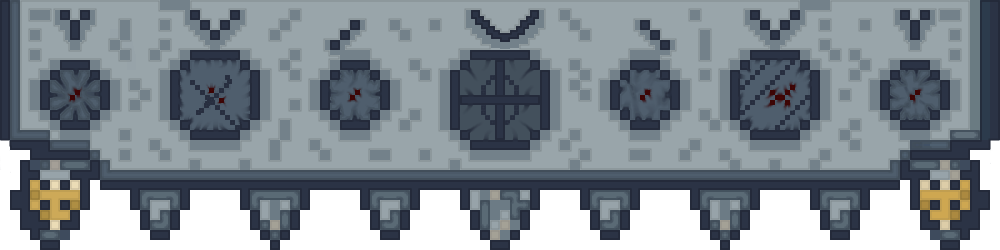
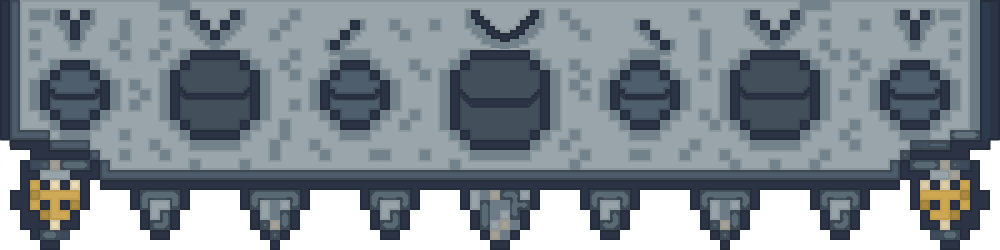
change boss sprite

diff --git a/src/comp/game/SpaceInvaders/README.md b/src/comp/game/SpaceInvaders/README.md
@@ -1,0 +1,120 @@
+# Space Invaders React + Canvas
+
+## Why
+
+I’m sharing this project because, while there are many tutorials showing how to build Space Invaders with plain JavaScript and HTML, I couldn’t find any recent tutorials implementing the game with modern React patterns. For example, in some videos I saw people asking for help trying to remake the game in React — I even searched for such tutorials myself.
+Since I managed to build a version using React’s hooks and a structure I find acceptable, I decided to share it back with the community.
+I want to stress that I’m not an expert in JavaScript, React, or frontend development — I’m just sharing my personal work, hoping it might help someone.
+
+## Project Overview
+
+This small game is a version of Space Invaders made using React and the Canvas API (along with JavaScript, HTML, CSS, and Tailwind).
+
+The project started as part of my learning journey with React and frontend development in general. The idea was to hide little games inside a fictional shop.
+
+Along the way, I discovered a video tutorial by Chris Courses (https://www.youtube.com/@ChrisCourses), which covered how to build a Space Invaders-style game using just plain JavaScript and canvas. The video only covers a basic version of the game, which I used as a reference. All the rest is just personal experimentation and creative additions — the game grew naturally as I tried new things.
+Instead of using pure JavaScript, I converted everything into React, mostly using useRef and useEffect. I used useState only where actual UI updates were needed.
+
+Initially, everything was written in a single file, which eventually grew to over 3000 lines. That pushed me to break the code into separate files and learn how to properly structure and share logic across them. The result is a feature-based organization with folders like player/, invaders/, boss/, ui/, powerup/, and so on. I’ve added large section comments to make the code easier to follow, and it’s still evolving as I continue to refactor and improve it—even after the video release.
+
+## Player
+
+- Can move horizontally and shoot projectiles.
+- Projectiles hit enemies or boss weak points.
+- Can be hit by enemy projectiles, lasers, or falling objects.
+- Customizable ship and projectile colors.
+- After defeating the boss, a power-up bubble appears. Picking it up upgrades the ship with improved stats and a new look.
+- Lives: the player starts with 5 lives. Lives are displayed as a ship icon followed by "x" and a numeral sprite. The icon updates based on the selected color and the current ship stage (before/after upgrade).
+
+## 👾 Invaders
+
+- Spawn in grids with random size (columns × rows).
+- Move together horizontally and descend after hitting edges.
+- Shoot projectiles at random intervals.
+- Destroyed on hit; triggers explosion particles and sound.
+- Each grid has increasing speed based on its size.
+- If any invader reaches the bottom of the screen, the player loses the game.
+
+## Meteor
+
+- Spawn after reaching a score threshold.
+- Spawns every 3s.
+- 3 types: large → medium → small, each hit downgrades the size.
+- Each type has different stats and impact sound.
+
+## Follower Enemy
+
+- Spawns after reaching a score threshold.
+- Spawns every 6s if under the limit, max 2 on screen.
+- Follows the player, then stops to charge and fire a laser.
+- 3-phase cycle: follow → charge → shoot.
+- Has visible health bar.
+- Phase 2 upgrade: after defeating the boss, it gains a visual update, larger laser, faster movement, and new animation.
+
+## Boss
+
+- Appears after a certain score threshold.
+- Phase 1: only projectiles, with random spawn frequency.
+- Projectiles: 3 types, each with different shapes and speed.
+- Phase 2: only laser beams with charging/shooting phases.
+- Beams: 3 types, each with different shapes, particles and sounds.
+- Phase 3: fires both lasers and projectiles, with lower projectile frequency.
+- Blue weak points: infinite, reposition every 5s, replaced when destroyed.
+- Red weak points: limited, stay until hit, replaced on destroy, higher damage.
+- Between phase 1 and phase 2, the boss moves up off-screen, changes sprite (from closed to open eyes), then descends back into the canvas (The boss sprite was hand-drawn in GIMP based on an image generated with Sora; the original .xcf file is included in the project).
+- Oscillatory movement with periodic switching between clockwise and counterclockwise rotation.
+
+## Power Ups
+
+- **Shield**: unlocks after reaching a certain score threshold; spawns every 15 seconds as a falling bubble the player must collect; provides 5 seconds of invulnerability from all damage sources; flashes when about to expire.
+- **Ship Upgrade**: spawns after defeating the boss; grants a new player ship sprite and improved stats; appears as a glowing, animated bubble that falls but stops at player height to ensure pickup.
+
+## 🏆 Score
+
+- Display: uses numeral sprites, increases smoothly with easing animation.
+- Effects: grows every 1K and 10K.
+- End screen: Final score appears in the main menu after the game ends.
+- High scores: Top 3 scores are saved locally (local storage) and shown at startup.
+- Bonus message: A custom congratulatory message appears if you reach 10K.
+
+## Particles, Effects, Animation
+
+- Particle explosions for enemy/boss hits and player death.
+- Flash animation when the player is hit or the shield is running out.
+- Particle effects for enemies lasers.
+- "Evolution" animation when picking up the ship upgrade.
+- Background star particles with varying opacity and radius; speed changes during boss entry (faster), and post-boss phase 2 (slightly accelerated).
+- Retreat animation for enemies and player exit/return synchronized with boss entrance.
+
+## 🔊 Sound
+
+- SFX: Almost every action has an associated sound — shooting, hits, explosions, laser charge and fire, invader grid spawn, game over, etc.
+- Background music: At the start of each game, one of several background tracks is randomly selected. After defeating the boss and entering phase 2, the background track switches to a different set. The boss also has its own unique randomly chosen tracks.
+  All these background tracks were originally generated with Suno AI, but since I can’t upload them to YouTube due to licensing, I replaced each type with a similar copyright-free track for the video (intro, boss, and phase 2).
+
+## Assets
+
+- All images and sounds used are listed in the file `CREDITS.md`, where I also credit the original authors and sources. They are all CC0 or similarly licensed-free to use without restrictions.
+- The Suno AI-generated music tracks have been removed from the project repository to avoid copyright issues.
+- Image and sound paths are stored in `asset/imgURL.js` and `asset/soundURL.js`.
+
+## UI
+
+- Audio controls: individual volume sliders for SFX, SFX (shooting only), and background music; plus a global mute toggle.
+- Controls help: popup menu showing gameplay controls.
+- Quit button: An optional button to exit the game, useful when the game is embedded above another component.
+
+## Extra
+
+- Debug Hitbox: uncomment a line to show some hitboxes for player, enemies, and projectiles.
+
+## ⚠ Known Issues / Limitations
+
+1. Grid Width Adjustment:
+   The tutorial mentions (point 7a) the need to recalculate the invader grid width-height when invaders get removed. I attempted to handle this but encountered many issues, so I left it unimplemented.
+
+2. Music Management:
+   The individual volume sliders for background music and sound effects work well. However, the global mute toggle, which stops and restarts music, is unstable. Rapid toggling or switching tracks quickly can cause the music to bug out—either not restarting or continuing to play after the game is closed. Under normal use, it works fine, so I have not fixed this yet.
+
+3. Background Music Loading:
+   Background tracks are about 3 minutes long and loaded lazily. Sometimes the music does not start on the first game load because the browser is still loading the files. Refreshing the page solves this, and afterward the music plays smoothly.

diff --git a/src/comp/game/SpaceInvaders/CREDITS.md b/src/comp/game/SpaceInvaders/CREDITS.md
@@ -1,0 +1,165 @@
+# Credits
+
+## Game Assets
+
+- [Space Shooter Redux](https://kenney.nl/assets/space-shooter-redux) by [Kenney.nl](https://kenney.nl) – Licensed under [CC0 1.0](https://creativecommons.org/publicdomain/zero/1.0/)
+
+## Sounds
+
+### Game Background Music:
+
+- **8 bit game loop 004 only organ long 120 bpm**  
+  By **josefpres**  
+  Downloaded on April 17th, 2025 from [FreeSound](https://freesound.org/people/josefpres/)
+
+- **8 bit game loop 009 only organ long 120 bpm**  
+  By **josefpres**  
+  Downloaded on April 16th, 2025 from [FreeSound](https://freesound.org/people/josefpres/)
+
+- **8 bit game loop 010 simple mix 4 long 120 bpm**  
+  By **josefpres**  
+  Downloaded on April 16th, 2025 from [FreeSound](https://freesound.org/people/josefpres/)
+
+- **Game Music Loop 6**  
+  By **XtremeFreddy**  
+  Downloaded on April 16th, 2025 from [pixabay](https://pixabay.com/users/xtremefreddy-32332307/)
+
+- **Game Over**  
+  By **freesound_community**  
+  Downloaded on April 16th, 2025 from [pixabay](https://pixabay.com/users/freesound_community-46691455/)
+
+- **Game Music Loop 16**
+  By **XtremeFreddy**
+  Downloaded on May 6th, 2025 from [pixabay](https://pixabay.com/users/xtremefreddy-32332307/)
+
+- **Boss Battle**  
+  By **B_Sean**  
+  Downloaded on May 15th, 2025 from [FreeSound](https://freesound.org/people/B_Sean/)
+
+- **warm climb up**
+  By **SamuelFJohanns**
+  Downloaded on May 16th, 2025 from [pixabay](https://pixabay.com/users/samuelfjohanns-1207793/)
+
+- **Game Music Loop 18**
+  By **XtremeFreddy**
+  Downloaded on May 16th, 2025 from [pixabay](https://pixabay.com/users/xtremefreddy-32332307/)
+
+- **Battle Music**
+  By **XtremeFreddy**
+  Downloaded on May 16th, 2025 from [pixabay](https://pixabay.com/users/xtremefreddy-32332307/)
+
+- **Distorted Worlds**
+  By **XtremeFreddy**
+  Downloaded on May 16th, 2025 from [pixabay](https://pixabay.com/users/xtremefreddy-32332307/)
+
+### Game SFX Sounds:
+
+- **Sad, Downwards Jingle (Tremolo Version)**  
+  By **IndyTheCringeMaster**  
+  Downloaded on April 15th, 2025 from [FreeSound](https://freesound.org/people/IndyTheCringeMaster/)
+
+- **power-down-01**  
+  By **newagesoup**  
+  Downloaded on April 14th, 2025 from [FreeSound](https://freesound.org/people/newagesoup/)
+
+- **Winner Bell Game Show**
+  By **oldedgar**
+  Downloaded on April 16th, 2025 from [FreeSound](https://freesound.org/people/oldedgar/)
+
+- **Game Success Fanfare**  
+  By **el_boss**  
+  Downloaded on April 15th, 2025 from [FreeSound](https://freesound.org/people/el_boss/)
+
+- **pop**
+  By **supersound23**
+  Downloaded on April 16th, 2025 from [FreeSound](https://freesound.org/people/supersound23/)
+
+- **Slot machine in a small casino (Chile)**
+  By **felix.blume**
+  Downloaded on April 16th, 2025 from [FreeSound](https://freesound.org/people/felix.blume/)
+
+- **egg crack13**
+  By **Reitanna**
+  Downloaded on April 16th, 2025 from [FreeSound](https://freesound.org/people/Reitanna/)
+
+- **You Win Sequence 1**
+  By **floraphonic**
+  Downloaded on April 16th, 2025 from [pixabay](https://pixabay.com/users/floraphonic-38928062/)
+
+- **Marimba Lose**
+  By **Universfield**
+  Downloaded on April 16th, 2025 from [pixabay](https://pixabay.com/users/universfield-28281460/)
+
+- **WinGrandPiano**
+  By **freesound_community**
+  Downloaded on May 6th, 2025 from [pixabay](https://pixabay.com/users/freesound_community-46691455/)
+
+- **arcade**
+  By **freesound_community**
+  Downloaded on May 6th, 2025 from [pixabay](https://pixabay.com/users/freesound_community-46691455/)
+
+- **Explosion 8-Bit 8**
+  By **SoundReality**
+  Downloaded on May 6th, 2025 from [pixabay](https://pixabay.com/users/soundreality-31074404/)
+
+- **Video Game - Bonus**
+  By **Universfield**
+  Downloaded on May 6th, 2025 from [pixabay](https://pixabay.com/users/universfield-28281460/)
+
+- **Small Rock Break**
+  By **LordSonny**
+  Downloaded on May 8th, 2025 from [pixabay](https://pixabay.com/users/lordsonny-38439655/)
+
+- **Rock destroy**
+  By **freesound_community**
+  Downloaded on May 8th, 2025 from [pixabay](https://pixabay.com/users/freesound_community-46691455/)
+
+- **Retro video game sfx - Reflect**
+  By **OwlStorm**
+  Downloaded on May 8th, 2025 from [freesound](https://freesound.org/people/OwlStorm/)
+
+- **Block - Rpg 1**
+  By **colorsCrimsonTears**
+  Downloaded on May 8th, 2025 from [freesound](https://freesound.org/people/colorsCrimsonTears/)
+
+- **Laser**
+  By **gustavorezende**
+  Downloaded on May 9th, 2025 from [pixabay](https://pixabay.com/users/gustavorezende-1488336/)
+
+- **Rock destroy**
+  By **freesound_community**
+  Downloaded on May 8th, 2025 from [pixabay](https://pixabay.com/users/freesound_community-46691455/)
+
+- **Boss Intro 01**
+  By **ADnova**
+  Downloaded on May 12th, 2025 from [freesound](https://freesound.org/people/ADnova/)
+
+- **Steam engine**
+  By **SamsterBirdies**
+  Downloaded on May 12th, 2025 from [freesound](https://freesound.org/people/SamsterBirdies/)
+
+- **Level Up Sound**
+  By **DRAGON_STUDIO**
+  Downloaded on May 16th, 2025 from [pixabay](https://pixabay.com/users/dragon_studio-38165424/)
+
+- **retro_gaming FX I**
+  By **freesound_community**
+  Downloaded on May 16th, 2025 from [pixabay](https://pixabay.com/users/freesound_community-46691455/)
+
+- **Thunder**
+  By **BlenderTimer**
+  Downloaded on May 21th, 2025 from [pixabay](https://pixabay.com/users/blendertimer-9538909/)
+
+- **Pop Cartoon**
+  By **CreatorsHome**
+  Downloaded on May 21th, 2025 from [pixabay](https://pixabay.com/users/creatorshome-49707711/)
+
+- **Cork pop**
+  By **freesound_community**
+  Downloaded on May 21th, 2025 from [pixabay](https://pixabay.com/users/freesound_community-46691455/)
+
+- **Classic Game Action Positive 19**
+  By **floraphonic**
+  Downloaded on May 21th, 2025 from [pixabay](https://pixabay.com/users/floraphonic-38928062/)
+
+> All above assets, images, and sounds used are either in the public domain (CC0) or free to use under their respective licenses. Where possible, authors have been credited.
